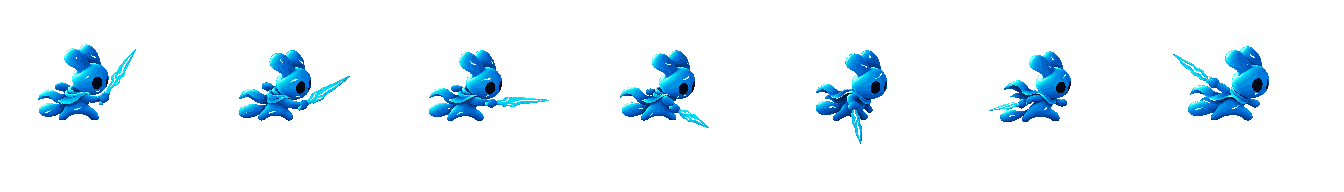
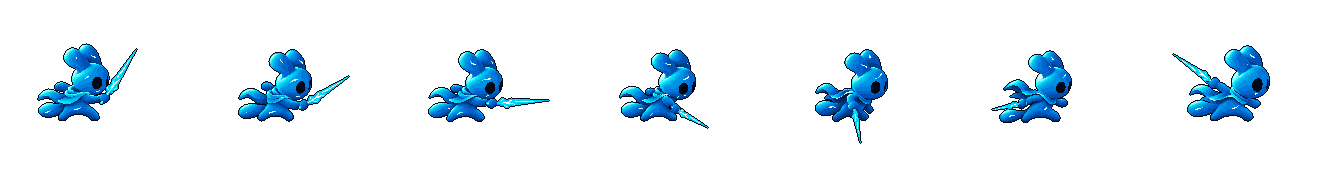
feat(gameplay): 720p 화면과 외곽선 공격 및 베기 효과 적용
사용자 요청으로 기본 게임 창을 1280×720으로 바꾸고 v6 외곽선 공격과 잠정 승인 전기 베기 v4를 연결했다. 베기는 공격 위치·방향을 유지하며 캐릭터 뒤에서 독립 소멸한다. pixelfx 라이선스는 licenses의 공통 파일로 관리한다.

표적 검사 4개와 실제 SDL 창 smoke 통과. 양 방향 합성·잔상·독립 소멸·창 전환·자원 정리, 원본 해시와 라이선스 본문 일치, 문서 링크·공백 검사를 확인했다. 공통 엔진 변경이 없어 전체 회귀는 생략했으며 사용자 직접 미술 평가는 미확인이다.

diff --git a/tests/integration/test_character_scene.py b/tests/integration/test_character_scene.py
@@ -6,7 +6,8 @@ from unittest.mock import Mock, patch
 
 import pico2d.pico2d as pico
 
-from game.scene import CharacterScene
+from game.scene import CharacterScene, DEFAULT_SIZE
+from game.effects import SwordTrail
 from game.mode import GameplayMode
 from game_framework import GameObject
 
@@ -24,7 +25,7 @@ class CharacterSceneTests(unittest.TestCase):
         self.enterContext(patch.object(pico, 'window', None, create=True))
         self.enterContext(patch.object(pico, 'SDL_SetWindowTitle'))
         self.app = Mock(reset_generation=0, output_valid=True, viewport=(0, 0, 800, 600),
-                        fullscreen=False, window_size=(800, 600))
+                        fullscreen=False, window_size=DEFAULT_SIZE)
 
     def pixels(self):
         sample = pico.SDL_Rect(340, 350, 120, 100)
@@ -141,3 +142,48 @@ class CharacterSceneTests(unittest.TestCase):
                 self.assertTrue(scene.images.closed)
                 self.assertIsNone(scene.engine)
                 self.assertEqual(scene.level.objects, ())
+
+    def test_sword_trails_keep_attack_position_and_expire_independently(self):
+        scene = CharacterScene()
+        scene.enter(self.app)
+        self.addCleanup(scene.exit)
+        actor = scene.character
+        scene.handle_event(SimpleNamespace(type=pico.SDL_KEYDOWN, key=pico.SDLK_a))
+        scene.update(.1)
+        click = SimpleNamespace(type=pico.SDL_MOUSEBUTTONDOWN, button=pico.SDL_BUTTON_LEFT)
+        scene.handle_event(click)
+        scene.update(.1)
+        first = next(obj for obj in scene.level.objects if isinstance(obj, SwordTrail))
+        self.assertEqual(first.player.elapsed, 0)
+        self.assertEqual(first.player.clip.durations, (.05,) * 14)
+        position = first.position
+        self.assertEqual(first.facing, -1)
+        self.assertLess(scene.level.objects[0].render_items()[0].draw_order,
+                        first.render_items()[0].draw_order)
+        self.assertLess(first.render_items()[0].draw_order, actor.render_items()[0].draw_order)
+        with patch('game.effects.draw_sprite') as draw:
+            first._draw(scene.transform, 1)
+            self.assertEqual(draw.call_args.args[2], position)
+            self.assertTrue(draw.call_args.kwargs['flip_x'])
+        scene.update(.35)
+        self.assertNotEqual(actor.state, 'attack')
+        self.assertIs(first.level, scene.level)
+        scene.handle_event(SimpleNamespace(type=pico.SDL_KEYUP, key=pico.SDLK_a))
+        scene.handle_event(SimpleNamespace(type=pico.SDL_KEYDOWN, key=pico.SDLK_d))
+        scene.update(.01)
+        self.assertGreater(actor.x, position[0])
+        self.assertEqual((first.position, first.facing), (position, -1))
+        scene.handle_event(click)
+        scene.update(0)
+        trails = [obj for obj in scene.level.objects if isinstance(obj, SwordTrail)]
+        self.assertEqual(len(trails), 2)
+        second = trails[-1]
+        self.assertEqual(second.facing, 1)
+        self.assertEqual(second.player.elapsed, 0)
+        scene.update(.34)
+        self.assertIsNone(first.level)
+        self.assertIs(second.level, scene.level)
+        image = second.player.frame.image
+        scene.exit()
+        self.assertIsNone(second.level)
+        self.assertTrue(image.closed)

diff --git a/tests/smoke/character_smoke.py b/tests/smoke/character_smoke.py
@@ -11,7 +11,8 @@ sys.path.insert(0, str(Path(__file__).resolve().parents[2]))
 import pico2d.pico2d as pico
 
 from engine import Engine
-from game.scene import CharacterScene
+from game.scene import CharacterScene, DEFAULT_SIZE
+from game.effects import SwordTrail
 
 
 def push_key(symbol, kind=pico.SDL_KEYDOWN):
@@ -61,6 +62,7 @@ class CharacterSmoke(CharacterScene):
 
     def exercise(self):
         actor = self.character
+        assert self.engine.window_size == (1280, 720)
         idle, left, right = (actor.clips[name] for name in ('idle', 'run_left', 'run_right'))
         assert actor.player.clip is idle and actor.player.elapsed > 0 and actor.x == 0
         self.capture('idle')
@@ -89,18 +91,22 @@ class CharacterSmoke(CharacterScene):
         yield
 
         assert actor.state == 'attack' and actor.x == stopped_x and actor.facing == -1
+        trail = next(obj for obj in self.level.objects if isinstance(obj, SwordTrail))
+        assert trail.position[0] == stopped_x and trail.facing == -1
         self.capture('attack-left')
         push_key(pico.SDLK_d)
         push_click()
         yield
 
         assert actor.state == 'run' and actor.x > stopped_x and actor.facing == 1
+        assert trail.level is self.level and trail.position[0] == stopped_x and trail.facing == -1
         self.capture('attack-resume-right')
         attack_x = actor.x
         push_click()
         yield
 
         assert actor.state == 'attack' and actor.x == attack_x and actor.facing == 1
+        assert trail.level is None
         self.capture('attack-right')
         push_key(pico.SDLK_d, pico.SDL_KEYUP)
         push_click()
@@ -157,7 +163,7 @@ if __name__ == '__main__':
     if not output.is_dir() or output.is_relative_to(Path(__file__).resolve().parents[2]):
         parser.error('프로젝트 밖의 기존 출력 폴더를 지정해야 합니다.')
     scene = CharacterSmoke(output)
-    Engine().run(scene)
+    Engine(*DEFAULT_SIZE).run(scene)
     assert scene.passed and all(ref.closed for ref in scene.refs)
     assert scene.engine is None and scene.level.objects == () and pico.renderer is None
     print('PASS: idle/run-right/opposite/run-left/attack-left/resume/attack-right/release/focus-loss/resize/fullscreen/escape/cleanup',

diff --git a/game/character.py b/game/character.py
@@ -8,6 +8,8 @@ from transitions import Machine
 
 from game_framework import GameObject, RenderItem, SpriteClip, SpriteFrame, SpritePlayer, draw_sprite
 
+from .effects import SwordTrail
+
 
 GROUND_Y = -180
 SPEED = 180
@@ -47,11 +49,11 @@ def load_clips(images):
     except ValueError as error:
         raise ValueError(f'애니메이션 설정 읽기 실패: {path}: {error}') from error
     clips = {}
-    for name in ('idle', 'run_left', 'run_right', 'attack'):
+    for name in ('idle', 'run_left', 'run_right', 'attack', 'sword_trail'):
         try:
             clips[name] = _load_clip(images, animations[name])
-            if clips[name].loop != (name != 'attack'):
-                raise ValueError('loop는 idle/Run에서 true, attack에서 false여야 합니다.')
+            if clips[name].loop != (name in ('idle', 'run_left', 'run_right')):
+                raise ValueError('loop는 idle/Run에서 true, attack/sword_trail에서 false여야 합니다.')
         except (KeyError, TypeError, ValueError, OverflowError) as error:
             raise ValueError(f'애니메이션 설정 오류: {path} ({name}): {error}') from error
     return clips
@@ -144,6 +146,9 @@ class Character(GameObject):
                     self.x = min(max(self.x, left + idle_left), right - idle_right)
 
         if self.state == 'attack':
+            if started and self.level is not None:
+                self.level.spawn(SwordTrail(self.clips['sword_trail'], (self.x, GROUND_Y),
+                                           self.facing, DISPLAY_SCALE))
             return
         if clip is self.clips['idle']:
             if self.state == 'run':

diff --git a/game/scene.py b/game/scene.py
@@ -4,7 +4,7 @@ from pathlib import Path
 
 import pico2d.pico2d as pico
 
-from engine import Engine, HEIGHT, WIDTH
+from engine import Engine, HEIGHT
 from game_framework import GameObject, ImageStore, Level, LevelScene, RenderItem, draw_rect
 
 from .character import GROUND_Y, Character, load_clips
@@ -12,13 +12,13 @@ from .mode import GameplayMode
 
 
 ASSETS = Path(__file__).resolve().parents[1] / 'assets' / 'warden'
-DEFAULT_SIZE = (WIDTH, HEIGHT)
-LARGE_SIZE = (1024, 720)
+DEFAULT_SIZE = (1280, 720)
+ALTERNATE_SIZE = (1024, 720)
 
 
 class _Ground(GameObject):
     def render_items(self):
-        return (RenderItem(self._draw),)
+        return (RenderItem(self._draw, draw_order=-2),)
 
     def _draw(self, transform, opacity):
         left, bottom, right, _ = transform.bounds
@@ -52,7 +52,7 @@ class CharacterScene(LevelScene):
     def handle_event(self, event):
         if event.type == pico.SDL_KEYDOWN:
             if event.key == pico.SDLK_F6:
-                size = LARGE_SIZE if self.engine.window_size == DEFAULT_SIZE else DEFAULT_SIZE
+                size = ALTERNATE_SIZE if self.engine.window_size == DEFAULT_SIZE else DEFAULT_SIZE
                 self.engine.set_display(fullscreen=False, window_size=size)
             elif event.key == pico.SDLK_F11:
                 self.engine.set_display(fullscreen=not self.engine.fullscreen)
@@ -65,4 +65,4 @@ class CharacterScene(LevelScene):
 
 def main():
     print('게임플레이: A/D 이동 / 왼쪽 클릭 공격 / F6 창 크기 / F11 전체화면 / Escape 종료', flush=True)
-    Engine().run(CharacterScene())
+    Engine(*DEFAULT_SIZE).run(CharacterScene())

diff --git a/game/effects.py b/game/effects.py
@@ -1,0 +1,26 @@
+"""공격 위치에 남아 단발 재생 후 사라지는 베기 효과."""
+
+from game_framework import GameObject, RenderItem, SpritePlayer, draw_sprite
+
+
+class SwordTrail(GameObject):
+    def __init__(self, clip, position, facing, scale):
+        super().__init__()
+        self.player = SpritePlayer(clip)
+        self.position = position
+        self.facing = facing
+        self.scale = scale
+
+    def update(self, dt):
+        self.player.update(dt)
+        if self.player.finished:
+            self.destroy()
+
+    def _draw(self, transform, opacity):
+        frame = self.player.frame
+        width, height = frame.rect[2:]
+        draw_sprite(frame, transform, self.position,
+                    (width * self.scale, height * self.scale), opacity, flip_x=self.facing < 0)
+
+    def render_items(self):
+        return (RenderItem(self._draw, draw_order=-1),)

diff --git a/docs/art-direction.md b/docs/art-direction.md
@@ -26,7 +26,7 @@
 
 ## 현재 제작 상태
 
-2026-11-11 사용자 결정 기준이다. 게임 전체 아트 스타일·규격은 미정이며 아래 후보의 규격을 전체 게임 규격으로 확대하지 않는다. 게임에 사용할 idle v7·좌우 Run v4·공격 v5 복사본을 assets/warden에 배치했다. 기본 플레이 장면에 표시·이동·공격 연결을 구현하고 실제 PNG·SDL 출력을 확인했다. 사용자 직접 품질 평가는 미확인이다.
+2026-11-11 사용자 결정 기준이다. 게임 전체 아트 스타일·규격은 미정이며 아래 후보의 규격을 전체 게임 규격으로 확대하지 않는다. 게임에 사용할 idle v7·좌우 Run v4·공격 v6 아웃라인 있음·전기 베기 v4 복사본을 assets/warden에 배치했다. 기본 플레이 장면에 표시·이동·공격·베기 연결을 구현하고 실제 PNG·SDL 출력을 확인했다. 사용자 직접 품질 평가는 미확인이다.
 
 | 대상 | 현재 상태·결과 | 유지할 기준 |
 |---|---|---|
@@ -36,8 +36,8 @@
 | 기존 Run v3 | [보존본](../art/warden/provisional-approved/run-v3/README.md) 이전 후보로 강등 | 2026-11-10 사용자 결정으로 잠정 승인에서 제외. 프레임과 과거 승인 기록 보존 |
 | 이전 달리기 | [review-v2](../art/warden/run-hibit/review-v2/both.gif) 보류 | 잠정 승인에 포함하지 않음 |
 | 공격 | [복부·양다리 보정 v5 — 아웃라인 없음](../art/warden/provisional-approved/attack-v5/review.html) 잠정 승인 | 오른손 한손 검 7프레임·350ms, hibit 16색·192×192. 채택한 동작·바라보는 방향·팔과 검의 원근을 기준으로 복부의 분리 경계를 없애고 양다리 부피를 보정했다. 5번의 남은 경계는 생성한 국소 패치를 합성했고 바깥 픽셀·흰 문양·알파 보존을 검사했다. idle 방식 이동 전류와 귀/천/꼬리 관성 유지. 6번 자동 머리 비율 실패·몸통 이동·1→2 전환 경고는 검사 자료에 유지한다. 실제 재생의 매끄러움은 미확인. 이전 후보·반려본은 보존하며 검 소환 VFX는 보류 |
-| 공격 검 교체 후보 | [v6 아웃라인 없음](../art/warden/attack-sword-v6/bundle-no-outline/review.html) · [v6 아웃라인 있음](../art/warden/attack-sword-v6/bundle-outlined/review.html) 검토 대기 | 2026-11-11 사용자 요청으로 기존 v5를 “아웃라인 없음”으로 명명하고 보존했다. [새 검 기준](../art/warden/attack-sword-v6/reference/new-sword-reference.png)의 긴 칼날·불꽃형 기부를 두 후보에 동일하게 적용했다. 7프레임·350ms·192×192·16색 유지, 외곽선은 팔레트의 짙은 남색(#020816) 1px. 검 교체 영역 밖의 원본 픽셀과 이동 전류·관성은 보존하며, 5번의 칼날에 가려진 몸만 생성 패치로 복원했다. 신규 후보는 미승인·게임 미통합 |
-| 베기 VFX | [전기 보강 v4](../art/warden/provisional-approved/sword-trail-electric-v4/review.html) 잠정 승인 | 192×192 투명 효과 14프레임·700ms, 기준점 (96,120). 공격 v5의 350ms 베기에 맞추고 6·7프레임의 왼쪽·왼쪽 위까지 이어진 뒤 소멸한다. 고정된 호에 이동 전류·분기 방전을 보강하며 검끝은 추종하지 않는다. 캐릭터와 별도 스프라이트, 게임 미통합 |
+| 공격 검 교체 | [v6 아웃라인 없음](../art/warden/attack-sword-v6/bundle-no-outline/review.html) · [v6 아웃라인 있음](../art/warden/attack-sword-v6/bundle-outlined/review.html) 중 아웃라인 있음을 사용자 지시로 게임 사용 | 2026-11-11 사용자 요청으로 기존 v5를 “아웃라인 없음”으로 명명하고 보존했다. [새 검 기준](../art/warden/attack-sword-v6/reference/new-sword-reference.png)의 긴 칼날·불꽃형 기부를 두 후보에 동일하게 적용했다. 7프레임·350ms·192×192·16색 유지, 외곽선은 팔레트의 짙은 남색(#020816) 1px. 검 교체 영역 밖의 원본 픽셀과 이동 전류·관성은 보존하며, 5번의 칼날에 가려진 몸만 생성 패치로 복원했다. 사용자가 idle/Run과 맞춰 아웃라인 있음 버전을 사용하도록 지시해 게임에 연결했다. 아웃라인 없음 후보는 미채택이며 최종 미술 품질은 미확인 |
+| 베기 VFX | [전기 보강 v4](../art/warden/provisional-approved/sword-trail-electric-v4/review.html) 잠정 승인 | 192×192 투명 효과 14프레임·700ms, 기준점 (96,120). 공격 v5의 350ms 베기에 맞추고 6·7프레임의 왼쪽·왼쪽 위까지 이어진 뒤 소멸한다. 고정된 호에 이동 전류·분기 방전을 보강하며 검끝은 추종하지 않는다. 캐릭터와 별도 스프라이트. 사용자 후속 요청으로 v6 공격과 함께 게임에 연결했으며 원본대로 캐릭터 뒤에서 700ms 재생 |
 
 [잠정 승인 보관 목록](../art/warden/provisional-approved/README.md)의 현재 승인 프레임은 캐릭터 135개와 베기 VFX 14개를 합한 149개 PNG다. 전기 보강 v4는 2026-11-11 사용자의 잠정 승인에 따라 프레임·시트를 변경 없이 보관하고 SHA-256 일치를 확인했다. 공격은 2026-11-11 사용자의 잠정 승인 지시에 따라 v5의 7프레임을 변경 없이 복사했고 SHA-256 일치를 확인했다. Run은 사용자가 검토한 [run-review-v4](../art/warden/shading-restore/run-review-v4/review.html)를 변경 없이 복사했으며 이전 Run 32개 PNG와 원화도 보존한다. 잠정 승인 자체는 게임 통합 승인이 아니며 현재 통합 범위는 아래 사용 자산과 별도 개발 요청을 따른다. 걷기·공격에 복원본의 최신 자세를 적용하는 작업은 아직 수행하지 않았다.
 
@@ -47,7 +47,7 @@
 
 
 - Agent Sprite Forge: 캐릭터·프롭·배경·애니메이션 제작과 후처리의 주요 도구.
-- pixelfx: VFX 제작의 주요 도구.
+- pixelfx: VFX 제작의 주요 도구. MIT 라이선스는 [공통 파일](../licenses/pixelfx-LICENSE.txt) 한 곳에서 관리하고 에셋마다 복제하지 않는다. 게임 화면·README·에셋별 문서에 별도 제작 도구 사용 문구를 요구하지 않는다.
 - AI 에이전트는 Codex. 외부 생성 서비스와 로컬 도구 사용 자체는 배제하지 않는다. 설치 상태는 새 생성·비용 지출·외부 전송·게임 통합의 승인이 아니다. 설치 위치와 사용 준비는 [도구 구성](tooling.md)을 따른다.
 
 
@@ -59,4 +59,4 @@
 
 ## 게임에서 사용하는 캐릭터 자산
 
-2026-11-11 사용자 요청에 따라 idle v7·Run v4의 PNG 시트 3장을 `assets/warden/idle.png`, `run_left.png`, `run_right.png`로 복사했다. 이름의 버전을 제거했으며 원본 PNG 바이트와 프레임별 시간·기준점을 보존했다. [게임 자산 출처](../assets/warden/README.md)에 원본 경로·SHA-256을, animations.json에 런타임 규격을 기록한다. .gitattributes는 PNG를 일반 Git 바이너리로 관리한다. 이후 기본 게임플레이 요청으로 공격 v5도 assets/warden/attack.png에 변경 없이 복사해 연결했다. 7프레임·350ms·기준점 (96,120)을 보존하며 왼쪽은 런타임 수평 반전이다. 실제 SDL 첫 프레임·양 방향 출력·발 기준점을 확인했다. 걷기·VFX는 포함하지 않는다. 이 통합 요청은 위 자산의 잠정 승인 상태나 최종 게임 아트 규격을 바꾸지 않는다.
+2026-11-11 사용자 요청에 따라 idle v7·Run v4의 PNG 시트 3장을 `assets/warden/idle.png`, `run_left.png`, `run_right.png`로 복사했다. 이름의 버전을 제거했으며 원본 PNG 바이트와 프레임별 시간·기준점을 보존했다. [게임 자산 출처](../assets/warden/README.md)에 원본 경로·SHA-256을, animations.json에 런타임 규격을 기록한다. .gitattributes는 PNG를 일반 Git 바이너리로 관리한다. 후속 사용자 지시로 assets/warden/attack.png는 v6 아웃라인 있음 시트를 변경 없이 사용한다. 기존 v5 원본과 무외곽선 v6 후보를 보존한다. 7프레임·350ms·기준점 (96,120)을 보존하며 왼쪽은 런타임 수평 반전이다. 실제 SDL 첫 프레임·양 방향 출력·발 기준점을 확인했다. 전기 베기 v4는 assets/warden/sword_trail.png로 복사해 14프레임·700ms와 같은 기준점을 보존했다. MIT 고지는 licenses/pixelfx-LICENSE.txt 한 곳에서 공통 관리한다. 걷기는 포함하지 않는다. 이번 요청은 아웃라인 공격의 게임 사용 선택과 베기 통합 근거이며, 최종 게임 아트 규격·품질 승인으로 확대하지 않는다.

diff --git a/specs/011-basic-gameplay/verification.md b/specs/011-basic-gameplay/verification.md
@@ -38,8 +38,35 @@ FR-001→T001, FR-002/003→T003/004, FR-004/005→T006~009, FR-006→T007/008, 
 - FR-006: bool loop 및 클립 정책 검증, 진입 실패·종료 이미지 정리. 게임은 assets만 사용하며 원본 art에 의존하지 않는다.
 - FR-DOC·SC-DOC: README·docs/README·game-design·systems·architecture·art-direction·progress·assets README·tests README·011 문서를 현 구현과 대조했다. constitution/workflow/tooling은 정책·도구 환경 변화가 없어 영향 없음. 과거 009/010 검증 근거 보존.
 
-## Converge와 한계
+## 초기 구현 Converge와 한계
 
 구현 후 spec/plan/tasks의 기능 요구 7개·성공 기준 4개·사용자 수용 시나리오 5개·작업 11개와 실제 코드를 대조했다. 입력 소유·명시적 player·의존성·자산 보존·상태 전이·화면·수명·문서·증분 커밋 계획을 충족하며 추가 구현 작업 없음. 통합 전 첫 증분은 c2a5ab3에 보존했다.
 
-전체 회귀·다른 세 smoke는 공통 엔진을 바꾸지 않아 선택하지 않았다. 타이틀 모드·적/피해·콤보·물리·VFX·새 아트는 요청 범위 밖이다. 왼쪽 공격은 수평 반전이며 공격 원본의 알려진 형태 흔들림은 그대로다. idle/Run 이동 경계를 유지하므로 화면 끝에서 검·공격 여백 일부가 잘릴 수 있다. 사용자 직접 확인 전 009 임시 자료를 삭제하지 않는다.
+전체 회귀·다른 세 smoke는 공통 엔진을 바꾸지 않아 선택하지 않았다. 초기 구현 당시 타이틀 모드·적/피해·콤보·물리·VFX·새 아트는 범위 밖이었다. 베기 VFX는 아래 후속 요청으로 포함했다. 왼쪽 공격은 수평 반전이며 공격 원본의 알려진 형태 흔들림은 그대로다. idle/Run 이동 경계를 유지하므로 화면 끝에서 검·공격 여백 일부가 잘릴 수 있다. 사용자 직접 확인 전 009 임시 자료를 삭제하지 않는다.
+
+## 후속 증분: 720p·아웃라인 공격·베기 VFX
+
+사용자 후속 요청으로 FR-007/008·SC-004와 US3를 명세·계획·T012~016에 연결하고 analyze 대조했다. 추가 요구 2개 모두 작업/검증에 대응, 충돌 없음. 기존 제외 범위 중 베기 VFX만 이번 요청으로 대체했다. 시작 시 작업 트리는 깨끗했으며 기존 구현/아트 기록은 이미 커밋됐다. `git fetch origin` 후 `git merge --no-commit origin/main`: Already up to date.
+
+게임 기본 창은 game/scene.py에서 Engine(1280,720)으로 지정한다. 공통 엔진 기본값과 논리 높이 600은 보존한다. attack.png는 v6 아웃라인 있음 원본으로 교체했고 전기 베기 v4를 복사했다. 사용자 후속 지시에 따라 pixelfx 라이선스는 licenses/pixelfx-LICENSE.txt에서 공통 관리한다. 원본 파일은 수정하지 않았다. 공통 라이선스·고지를 보존하며 게임·자산 README에는 별도 제작 도구 사용 문구를 두지 않는다. 새 라이브러리 설치·이미지 생성 없음.
+
+### 선택한 검증과 실제 결과
+
+게임 `.venv/Scripts/python.exe`로 아래 4개를 한 번 실행해 모두 통과했다(`-B -m unittest <아래 메서드 4개> -v`).
+
+- `tests.integration.test_character_scene.CharacterSceneTests.test_sword_trails_keep_attack_position_and_expire_independently`: 효과 생성 0초·14×50ms·뒤쪽 레이어·좌측 반전·공격 후 이동과 방향 변화에도 위치/방향 고정·후속 효과 공존·700ms 개별 제거·장면 종료 시 이미지 해제.
+- `tests.integration.test_character_scene.CharacterSceneTests.test_real_asset_draw_and_fresh_scene_lifetime`: 실제 새 PNG 로딩·출력·장면 이미지 수명.
+- `tests.integration.test_character_scene.CharacterSceneTests.test_window_commands_and_resize_bounds`: 변경한 기본 창의 F6/F11·경계 보정.
+- `tests.unit.test_character.CharacterTests.test_attack_starts_at_first_frame_ignores_clicks_and_resumes_held_key`: 기존 공격 정지·첫 프레임·유지 키 복귀 보존.
+
+`-B tests/smoke/character_smoke.py --output-dir C:/Users/Developer/.codex/visualizations/2026/11/11/01a1cac2-b470-7663-9b16-80b99460d51f/720p-trail` → 종료 0/PASS. 실제 창 1280×720, 좌우 공격·잔상 잔존/소멸, focus-loss·F6/F11·Escape·자원 정리 확인.
+
+위 폴더의 character-attack-left.png·character-attack-right.png·character-attack-resume-right.png를 열어 양 방향 외곽선 공격·캐릭터 뒤 전기 베기·이동 후 남은 잔상을 관찰했다. 출력 1280×720을 확인했으며 아트 목업이 아닌 실제 SDL 렌더 캡처다.
+
[1 lines of base64/hex data omitted]
+
+### 최종 문서 대응·Converge
+
+FR-007→DEFAULT_SIZE/실제 창, FR-008→SwordTrail/독립 수명·합성·자산, SC-004→해시·창 캡처·표적 검사. spec/plan/tasks의 총 9개 기능 요구·5개 성공 기준·16개 작업을 대조해 미구현 필수 항목 없음. 후속 변경은 docs/architecture·systems/basic-gameplay·art-direction·progress·README·assets 출처 및 011 문서에 반영했다. 게임 규칙 본체와 기존 350ms 공격 잠금은 유지한다.
+
+원본 베기는 검끝을 추종하지 않는 고정 호이고 v6에서도 이를 보존했다. 왼쪽은 수평 반전, 화면 가장자리에서는 효과 일부가 잘릴 수 있다. 전체 회귀·다른 smoke는 공통 엔진 변경이 없어 선택하지 않았다. 사용자 직접 조작·최종 미술 품질, 피해 판정·새 아트 제작은 이번 검증/구현 범위 밖이다.

diff --git a/docs/progress.md b/docs/progress.md
@@ -4,24 +4,28 @@
 
 ## 현재 단계
 
+- **011 후속 증분 완료:** 사용자 요청으로 기본 게임 창 1280×720, v6 아웃라인 있음 공격, 잠정 승인 전기 베기 v4를 연결했다. 표적 4개와 실제 SDL 창 검사 통과, 양 방향·잔상·해상도를 캡처로 확인했다. 기존 작업은 이미 커밋됐으며 새 아트 생성 없이 런타임만 변경한다.
+
 - **기본 게임플레이 011 구현·검증 완료:** feature/basic-gameplay에서 GameplayMode, Warden A/D 이동·왼쪽 클릭 단발 공격을 연결했다. 공격 중 정지·방향 고정, 추가 클릭 무시, 종료 후 현재 유지 키 반영은 [기본 조작](systems/basic-gameplay.md)을 따른다. [명세](../specs/011-basic-gameplay/spec.md)·[계획](../specs/011-basic-gameplay/plan.md)·[검증](../specs/011-basic-gameplay/verification.md).
 - **검증:** 게임 상태·실제 PNG·수명 표적 15개 통과. 실제 SDL 창의 양 방향 공격·복귀·포커스·resize/fullscreen·종료 검사 통과. 첫 프레임과 발 접지를 캡처로 확인했다. 사용자 직접 조작감·미술 품질은 미확인이다.
 - **기반:** 엔진·프레임워크·스프라이트·캐릭터 이동은 PR #3 이후 main에 포함됐다. 이번 입력·재생 감사는 기존 기능을 재사용할 수 있다고 판단해 engine/game_framework를 수정하지 않았다.
-- **아트:** idle v7·좌우 Run v4·공격 v5 원본 시트 4개가 assets/warden에 있다. 공격 원본 SHA-256·7프레임·350ms·기준점을 보존했다. 전기 베기 VFX v4는 2026-11-11 사용자 지시로 잠정 승인하고 art/warden/provisional-approved/sword-trail-electric-v4에 별도 보관했다(14프레임·700ms, 원본 해시 일치). 걷기·VFX는 미통합. 공격의 알려진 형태·전환 한계는 [아트 기준](art-direction.md#현재-제작-상태)을 따른다.
+- **아트:** idle v7·좌우 Run v4·공격 v6 아웃라인 있음·전기 베기 v4 시트 5개가 assets/warden에 있다. 공격 원본 SHA-256·7프레임·350ms·기준점을 보존했다. 전기 베기 VFX v4는 2026-11-11 사용자 지시로 잠정 승인하고 art/warden/provisional-approved/sword-trail-electric-v4에 별도 보관했다(14프레임·700ms, 원본 해시 일치). 베기 VFX는 게임에 연결했고 걷기는 미통합이다. 공격의 알려진 형태·전환 한계는 [아트 기준](art-direction.md#현재-제작-상태)을 따른다.
 
-- **공격 아트 파생본:** 2026-11-11 사용자 요청으로 기존 잠정 승인 v5를 “아웃라인 없음”으로 명명했다. 새 검 기준을 적용한 v6의 아웃라인 없음/1px 있음 두 후보는 [아트 기준](art-direction.md#현재-제작-상태)에서 검토하며, 기존 승인 프레임과 게임 사용 시트는 보존했다. 새 후보의 사용자 검토·게임 내 미술 확인은 미완료다.
+- **공격 아트 파생본:** 2026-11-11 사용자 요청으로 기존 잠정 승인 v5를 “아웃라인 없음”으로 명명했다. 새 검 기준 v6 중 1px 아웃라인 있음 버전을 이번 사용자 요청으로 게임에 사용했다. 기존 승인 프레임·무외곽선 후보는 보존했다. [아트 기준](art-direction.md#현재-제작-상태)을 따르며 최종 미술 품질은 미확인이다.
 
 ## 확정 범위와 가정
+
+- 사용자 지시에 따라 pixelfx 공통 라이선스·고지만 유지하고 게임·자산 README의 별도 제작 도구 사용 문구는 두지 않는다.
 
 - 본격 게임 구현 및 이번 조작 범위는 사용자 요청이 진행 근거다. 공격 중 정지·종료 후 유지 키 반영은 후속 답변으로 확정했다. 계획의 세부 기술 가정은 사용자 승인으로 표시하지 않는다.
 - Python + Pico2D 유지, transitions 0.9.3은 Warden 상태 머신에만 사용하며 게임 .venv에 설치했다. 게임·도구·전역 환경을 분리한다.
 - 수평 A/D·왼쪽 클릭과 상태 규칙은 이번 범위다. 속도·배율·바닥선은 [기술 구조](architecture.md#캐릭터-이동-검사)의 기존 기술 기본값이다. 좌측 공격은 수평 반전하며 화면 끝에서 공격 일부가 잘릴 수 있다.
-- 피해·적·충돌·물리·점프·콤보·타이틀 모드·VFX·새 아트 생성은 제외한다. 다른 규칙의 레벨은 추후 다른 GameMode를 지정한다.
+- 피해·적·충돌·물리·점프·콤보·타이틀 모드·새 아트 생성은 제외한다. 베기 VFX는 후속 요청으로 포함했다. 다른 규칙의 레벨은 추후 다른 GameMode를 지정한다.
 - 검증된 증분은 로컬 커밋한다. 원격 push·PR·main 병합은 수행하지 않았다. [동기화 절차](workflow.md#기존-브랜치-동기화)와 한국어 커밋 규칙을 유지한다.
 
 ## 미결 사항
 
-- 010/011 사용자 직접 플레이 감각·최종 미술 품질. 공격 v5의 원본 형태 변화와 좌측 반전 표현은 후속 검토 대상이다.
+- 010/011 사용자 직접 플레이 감각·최종 미술 품질. 공격 원본의 형태 변화와 좌측 반전 표현은 후속 검토 대상이다.
 - 009의 이전 사용자 직접 확인·확인 후 임시 자료 정리(T013/T014/T016). 자료를 보존한다.
 - 최종 속도·피해·승패와 전체 아트 규격, 실물 고DPI·대량 객체 성능·장치 리셋 자동 복구는 미정 또는 미확인이다.
 
